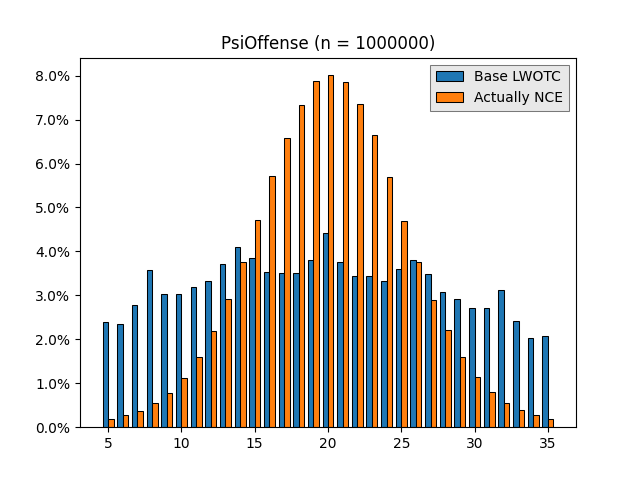
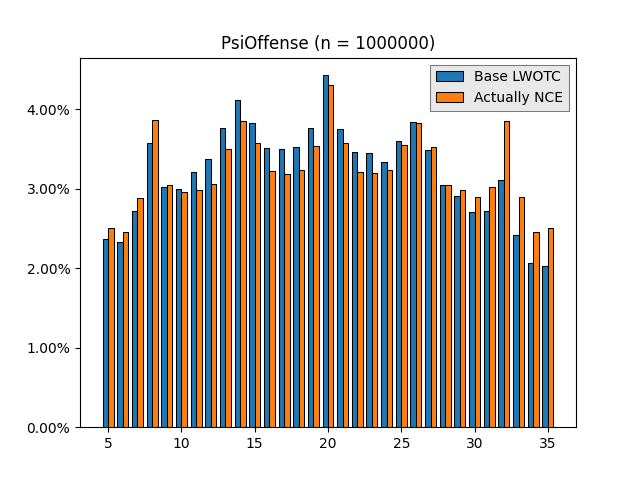
Dumbest possible new idea for a new ANCEv2

diff --git a/soldier.py b/soldier.py
@@ -63,6 +63,69 @@ ANCEV1_SWAPS = (
     StatSwap("PsiOffense", 3, "PsiOffense", 0, 0.75),
 )
 
+ANCEV2_SWAPS = (
+    StatSwap("Offense", 0, "Will", 3, 1.0),
+    StatSwap("Offense", 0, "Will", 6, 1.0),
+    StatSwap("Offense", 0, "Mobility", 1, 1.5),
+    StatSwap("Offense", 0, "HP", 1, 1.5),
+    StatSwap("Offense", 0, "Hacking", 3, 0.5),
+    StatSwap("Offense", 0, "PsiOffense", 3, 1.0),
+    StatSwap("Offense", 0, "PsiOffense", 6, 1.0),
+    StatSwap("Offense", 0, "Dodge", 3, 1.0),
+    StatSwap("Offense", 0, "Dodge", 6, 0.5),
+    StatSwap("HP", 0, "Mobility", 1, 2.0),
+    StatSwap("HP", 0, "PsiOffense", 12, 1.0),
+    StatSwap("Mobility", 0, "PsiOffense", 12, 1.0),
+    StatSwap("Dodge", 0, "Will", 1, 1.0),
+    StatSwap("Dodge", 0, "Will", 2, 1.0),
+    StatSwap("Dodge", 0, "Will", 3, 1.0),
+    StatSwap("Dodge", 0, "Will", 4, 1.0),
+    StatSwap("Dodge", 0, "Hacking", 1, 0.5),
+    StatSwap("Dodge", 0, "Hacking", 2, 0.5),
+    StatSwap("Dodge", 0, "Hacking", 3, 0.5),
+    StatSwap("Dodge", 0, "Hacking", 4, 0.5),
+    StatSwap("Dodge", 0, "PsiOffense", 4, 1.0),
+    StatSwap("Dodge", 0, "PsiOffense", 5, 1.0),
+    StatSwap("Dodge", 0, "PsiOffense", 6, 1.0),
+    StatSwap("Dodge", 0, "PsiOffense", 7, 1.0),
+    StatSwap("Will", 0, "Hacking", 1, 0.5),
+    StatSwap("Will", 0, "Hacking", 2, 0.5),
+    StatSwap("Will", 0, "PsiOffense", 4, 0.5),
+    StatSwap("Will", 0, "PsiOffense", 5, 1.0),
+    StatSwap("Will", 0, "PsiOffense", 6, 1.0),
+    StatSwap("Will", 0, "PsiOffense", 7, 1.0),
+    StatSwap("Offense", 1, "Will", 0, 1.0),
+    StatSwap("Offense", 2, "Will", 0, 1.0),
+    StatSwap("Offense", 4, "Mobility", 0, 1.5),
+    StatSwap("Offense", 4, "HP", 0, 1.5),
+    StatSwap("Offense", 1, "Hacking", 0, 0.5),
+    StatSwap("Offense", 1, "PsiOffense", 0, 1.0),
+    StatSwap("Offense", 2, "PsiOffense", 0, 1.0),
+    StatSwap("Offense", 1, "Dodge", 0, 1.0),
+    StatSwap("Offense", 2, "Dodge", 0, 0.5),
+    StatSwap("HP", 1, "Mobility", 0, 2.0),
+    StatSwap("HP", 1, "PsiOffense", 0, 1.0),
+    StatSwap("Mobility", 1, "PsiOffense", 0, 1.0),
+    StatSwap("Dodge", 1, "Will", 0, 1.0),
+    StatSwap("Dodge", 2, "Will", 0, 1.0),
+    StatSwap("Dodge", 3, "Will", 0, 1.0),
+    StatSwap("Dodge", 4, "Will", 0, 1.0),
+    StatSwap("Dodge", 1, "Hacking", 0, 0.5),
+    StatSwap("Dodge", 2, "Hacking", 0, 0.5),
+    StatSwap("Dodge", 3, "Hacking", 0, 0.5),
+    StatSwap("Dodge", 4, "Hacking", 0, 0.5),
+    StatSwap("Dodge", 4, "PsiOffense", 0, 1.0),
+    StatSwap("Dodge", 5, "PsiOffense", 0, 1.0),
+    StatSwap("Dodge", 6, "PsiOffense", 0, 1.0),
+    StatSwap("Dodge", 7, "PsiOffense", 0, 1.0),
+    StatSwap("Will", 1, "Hacking", 0, 0.5),
+    StatSwap("Will", 2, "Hacking", 0, 0.5),
+    StatSwap("Will", 4, "PsiOffense", 0, 0.5),
+    StatSwap("Will", 5, "PsiOffense", 0, 1.0),
+    StatSwap("Will", 6, "PsiOffense", 0, 1.0),
+    StatSwap("Will", 7, "PsiOffense", 0, 1.0),
+)
+
 
 class EStat:  # Called that because that's what they're called internally in LWOTC
     def __init__(self, stat_range: Stat):
@@ -166,4 +229,5 @@ class StatSwapper:
 INITIALIZERS = {
     "lwotc": StatSwapper(5 * (4,), LWOTC_SWAPS),
     "ancev1": StatSwapper(8 * (8,), ANCEV1_SWAPS),
+    "ancev2": StatSwapper(10 * (4,), ANCEV2_SWAPS),
 }

diff --git a/steam_workshop_images.py b/steam_workshop_images.py
@@ -31,6 +31,9 @@ MOB_RANGE = range(
     Soldier.STATS["Mobility"].default + Soldier.STATS["Mobility"].max_delta + 1,
 )
 
+INITIALIZER_1 = "lwotc"
+INITIALIZER_2 = "ancev2"
+
 
 class FigSaver:
     """
@@ -79,7 +82,7 @@ if __name__ == "__main__":
     )
     mob_aim_samples = []  # Need to plot after loop, otherwise colormap won't be shared
 
-    for sample_index, initializer in enumerate(INITIALIZERS[key] for key in ("lwotc", "ancev1")):
+    for sample_index, initializer in enumerate(INITIALIZERS[key] for key in (INITIALIZER_1, INITIALIZER_2)):
         # Put sample in a matrix
         sample = np.zeros([args.number, len(Soldier.STATS)], dtype=np.int16)
         totals = np.zeros([args.number], dtype=np.int16)
@@ -110,7 +113,7 @@ if __name__ == "__main__":
             )
 
         # Weighed Stat Total chart
-        if initializer == ancev1_initializer:
+        if initializer is INITIALIZERS[INITIALIZER_2]:
             totals_ax.hist(
                 totals,
                 color=COLORS[1],
